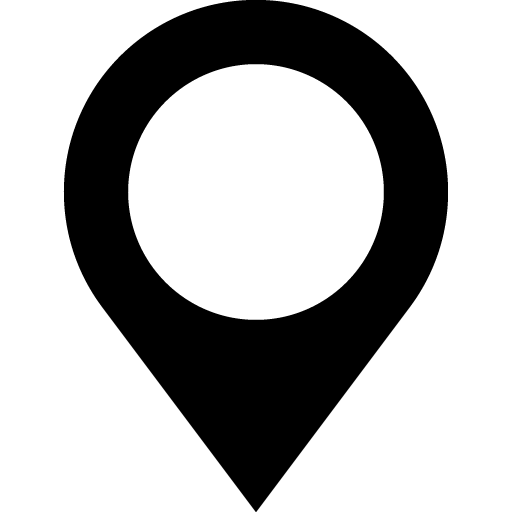
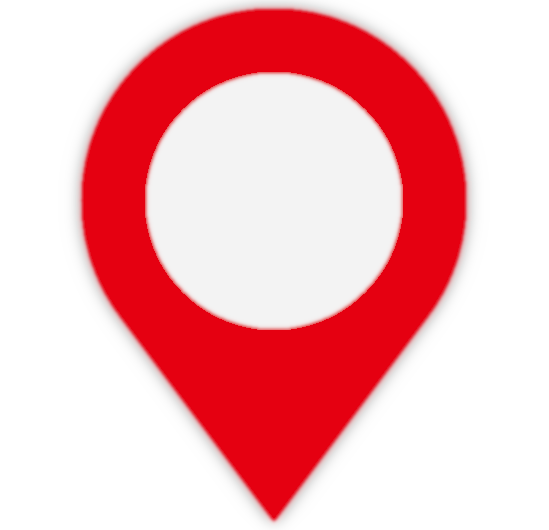
Pin styling

diff --git a/css/style.css b/css/style.css
@@ -149,6 +149,10 @@ nav {
     top: 10px;
     right: 10px;
     cursor: pointer;
+    -webkit-text-stroke: 2px #e50011;
+}
+.free-space-short {
+    margin-top: 3px;
 }
 .free-space-short.free {
     color: #38ce6e;

diff --git a/index.php b/index.php
@@ -48,17 +48,7 @@
 
             map.loadImage('assets/pin.png', function(error, image) {
                 if (error) throw error;
-                map.addImage('pin', image);
-            });
-
-            map.loadImage('assets/pin-active.png', function(error, image) {
-                if (error) throw error;
                 map.addImage('pin-active', image);
-            });
-
-            map.loadImage('assets/pin-filled.png', function(error, image) {
-                if (error) throw error;
-                map.addImage('pin-filled', image);
             });
             
             var start = [localStorage.long, localStorage.lat];
@@ -141,18 +131,18 @@
                 source: "parking_spots",
                 filter: ["!", ["has", "point_count"]],
                 layout: {
-                    "icon-image": "pin-filled",
+                    "icon-image": "pin-active",
                     "icon-size": 0.12,
                     "icon-offset": [0, -250],
                     "text-field": "{FreeSpaceShort}",
                     "text-font": ["Roboto Black"],
-                    "text-size": 16,
-                    "text-offset": [0, -2.2],
+                    "text-size": 14,
+                    "text-offset": [0, -2.6],
                     "text-allow-overlap" : true,
                     "icon-allow-overlap" : true
                 },
                 paint: {
-                    "text-color": "#f3f3f3"
+                    "text-color": "#221915"
                 }
             }); 
 
